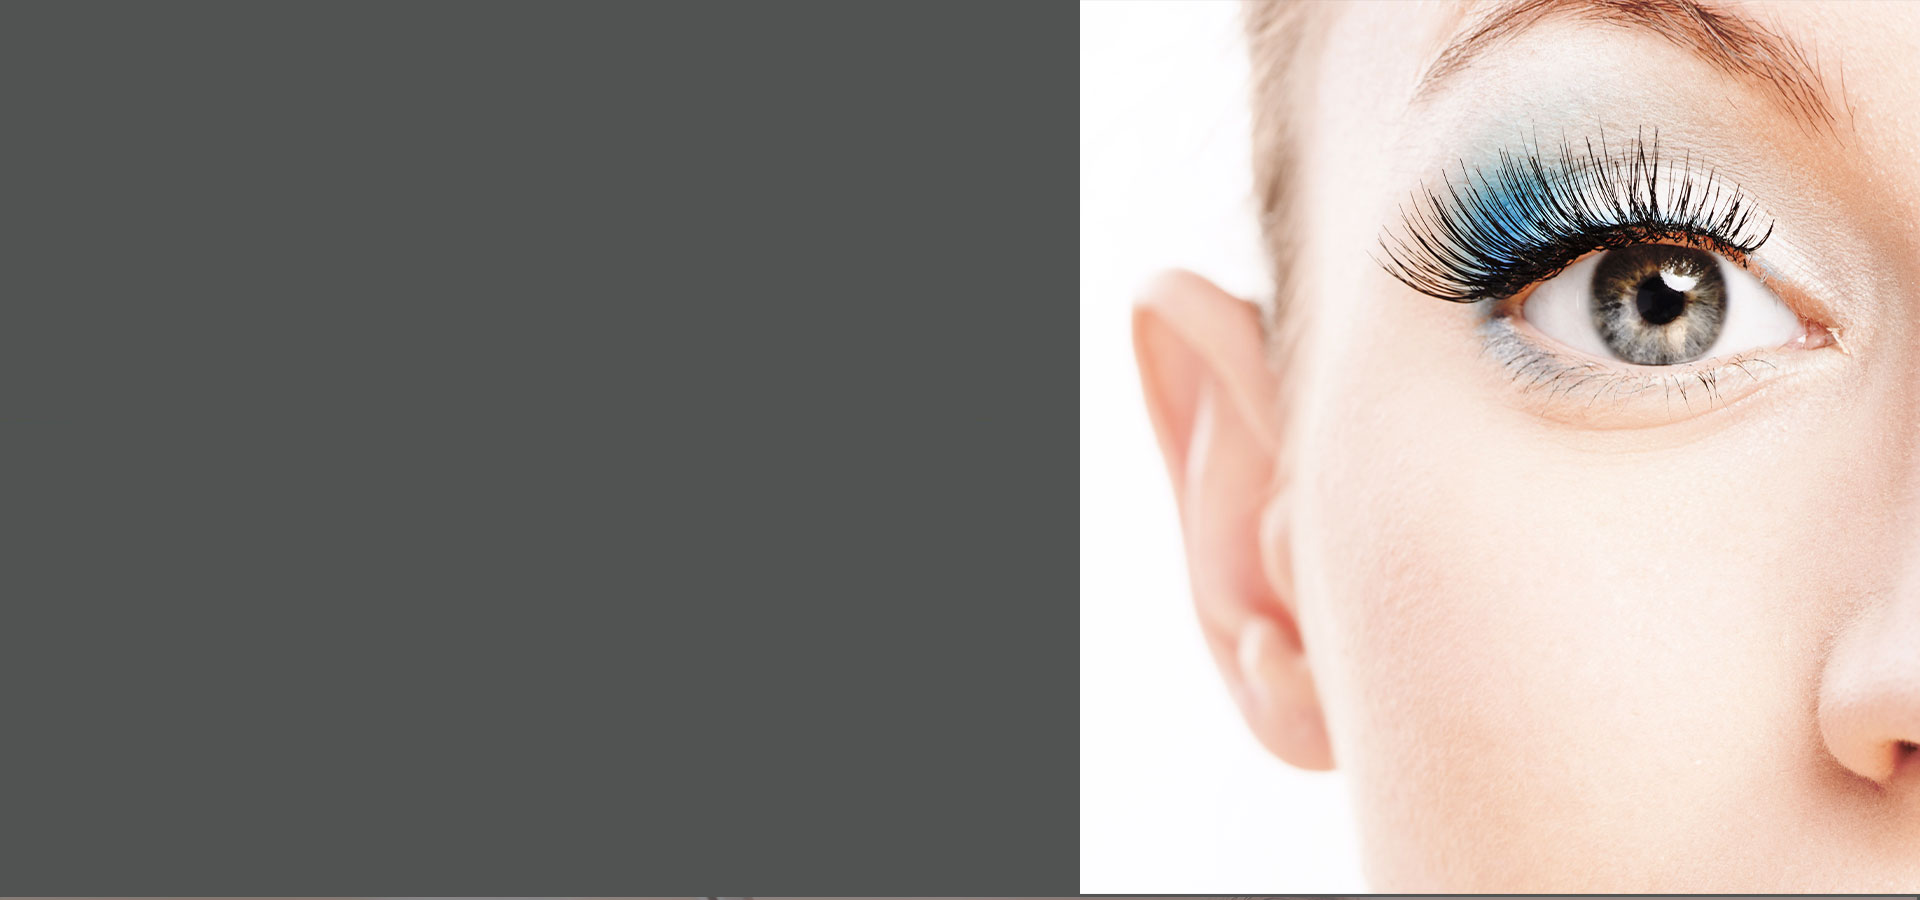
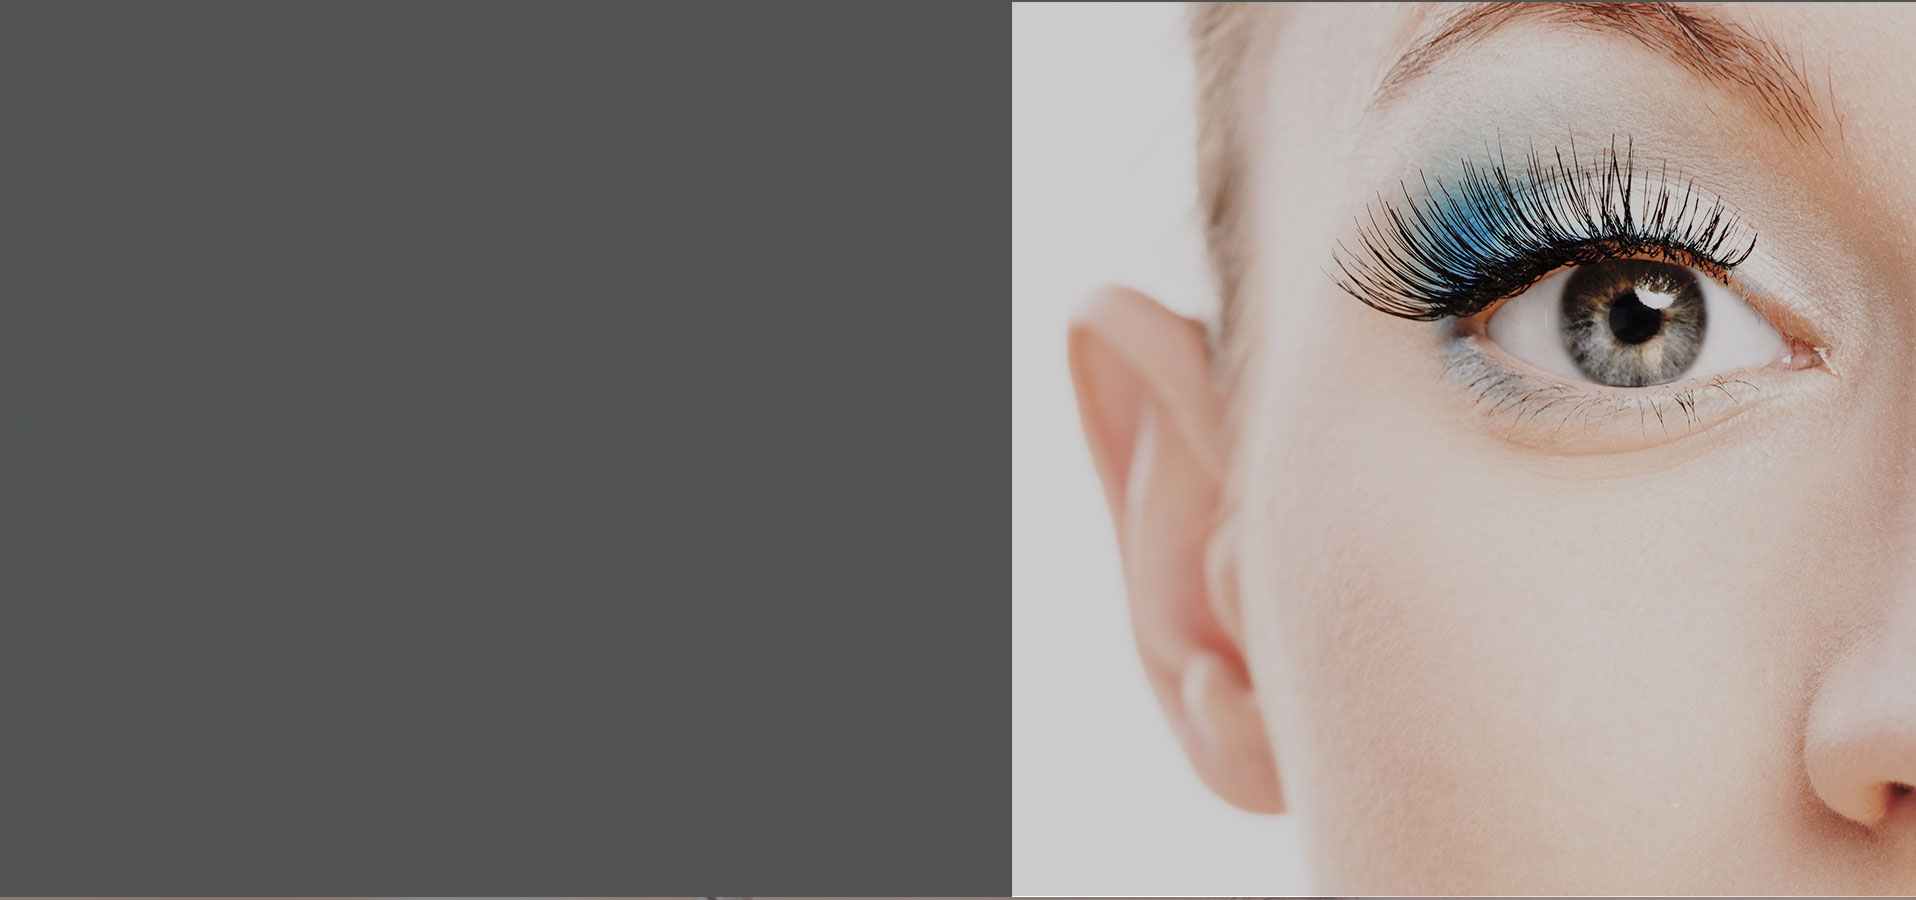
fixed some css

diff --git a/css/styles.css b/css/styles.css
@@ -1,4 +1,5 @@
 * {
+    box-sizing: border-box;
     margin: 0;
     padding: 0;
 }
@@ -7,7 +8,6 @@ a {
 }
 
 .container {
-    width: 100%;
     max-width: 1200px;
     margin: 0 auto;
 }
@@ -25,19 +25,18 @@ a {
     left: 0;
     right: 0;
     z-index: 35;
-    padding-top: 30px;
+    padding: 50px 0 315px 0;
 }
-.header__inner {
-    display: flex;
-    align-items: flex-start;
-}
+
 .nav {
+    width: 390px;
+    display: flex;
+    justify-content: space-between;
     font-size: 16px;
     font-family: "Gotham Pro", sans-serif;
 }
 .nav__link {
-    display: inline-block;
-    margin: 0 15px;
+    /*display: inline-block;*/
     text-decoration: none;
     color: #f9f9fe;
     transition: color .2s linear;
@@ -48,26 +47,25 @@ a {
 
 /* Content */
 .intro {
-    display: flex;
-    flex-direction: column;
-    justify-content: center;
-    width: 100%;
+    padding-top: 185px;
     height: 100vh;
-    background: url(../img/background_01.jpg) center no-repeat;
+    background: url(../img/background_01.jpg) center center/cover no-repeat;
     -webkit-background-size: cover;
-    background-size: cover;
 }
-
+.intro__text {
+    text-align: left;
+    display: flex;
+    justify-content: left;
+    flex-direction: column;
+}
 .intro__subtitle {
-    padding-left: 7px;
-    font-size: 31px;
+    font-size: 30px;
     font-family: "Gotham Pro", serif;
     background: linear-gradient(-105deg, #f4eff2 33%, #d2c3ec);
     -webkit-background-clip: text;
     -webkit-text-fill-color: transparent;
     font-style: italic;
     text-transform: uppercase;
-    text-align: left;
     margin-bottom: 20px;
 }
 .intro__tittle {
@@ -90,13 +88,12 @@ a {
 /*Block about company*/
 .about {
     display: flex;
-    flex-direction: column;
+    /*flex-direction: column;*/
     justify-content: center;
-    width: 100%;
     height: 100vh;
-    background: url(../img/background_02.jpg) center no-repeat;
+    background: url(../img/background_02.jpg) center center/cover no-repeat;
     -webkit-background-size: cover;
-    background-size: cover;
+    padding: 180px 0 160px 0;
 }
 .about__title {
     max-width: 900px;
@@ -115,7 +112,7 @@ a {
     text-align: left;
 }
 .about__subtitle-2 {
-    margin: 60px auto;
+    margin: 90px auto;
     max-width: 580px;
 }
 .about__line {
@@ -129,42 +126,29 @@ a {
 }
 .about__advantage {
     display: flex;
-    width: 100%;
     justify-content: space-between;
-    flex-direction: row;
+    align-items: center;
 }
 .about__advantage__item {
-    margin-top: 10px;
+    margin: 10px 95px 0 0;
+    width: 160px;
+    height:70px;
     color: #FCFCFC;
     text-align: center;
     font-family: "Gotham Pro Regular", serif;
     font-size: 24px;
 }
-.photo {
-    display: block;
-    width: 220px;
-    height: 215px;
-    margin-bottom: 30px;
+.about__advantage__item img {
+    width: 100%;
 }
-.photo_1 {
-    background: url(../img/photo_1.png) no-repeat center;
-}
-.photo_2 {
-    background: url(../img/photo_2.png) no-repeat center;
-}
-.photo_3 {
-    background: url(../img/photo_3.png) no-repeat center;
-}
-.photo_4 {
-    background: url(../img/photo_4.png) no-repeat center;
-}
+
 /*Block-3 Services*/
 .services {
     display: flex;
     flex-direction: column;
     justify-content: center;
     width: 100%;
-    height: 100vh;
+    height: 680px;
     background: url(../img/background_03.jpg) center no-repeat;
     -webkit-background-size: cover;
     background-size: cover;
@@ -208,7 +192,7 @@ a {
 /*Block footer*/
 .footer {
     width: 100%;
-    height: 100vh;
+    height: 750px;
     background: url(../img/background_04.jpg) center no-repeat;
     -webkit-background-size: cover;
     background-size: cover;
@@ -262,17 +246,75 @@ a {
 /*Styles for mobile*/
 @media (min-width: 480px) and (max-width: 768px) {
 
+.container {
+    max-width: 690px;
+    min-width: 410px;
+    }
+    .header {
+        max-width: 768px;
+    }
+    .intro {
+        max-width: 768px;
+        min-width: 410px;
+        height: auto;
+        background-size: contain;
+    }
 }
 
-@media (min-width: 320px) and (max-width: 409px) {
+@media only screen
+and (min-width: 320px)
+and (max-width: 568px) {
+    .container {
+        min-width: 100%;
+    }
+    .title {
+        font-size: 28px;
+    }
+    .nav {
+        flex-direction: column;
+        align-items: center;
+        width: 100%;
+        font-size: 19px;
+    }
+    .nav__link {
+        line-height: 30px;
+    }
+    .header {
+        padding-top: 20px;
+        width: 100%;
+    }
+    .intro {
+        width: 100%;
+        background: #515352;
+    }
+    .intro__subtitle {
+        text-align: center;
+        font-size: 25px;
+    }
+    .intro__tittle {
+        width: 100%;
+        font-size: 60px;
+        text-align: center;
+    }
+    .intro__subtitle-2 {
+        display: none;
+    }
+    .about {
+        width: 100%;
+    }
+    .about__subtitle {
+        text-align: center;
+    }
+    .about__title {
+        font-size: 25px;
+    }
+}
+
+@media (max-width: 767px) {
 
 }
 
-@media (min-width: 410px) and (max-width: 767px) {
-
-}
-
-@media (min-width: 768px) and (max-width: 1024px) {
+@media (max-width: 1024px) {
 
 
 }

diff --git a/index.html b/index.html
@@ -2,7 +2,7 @@
 <html lang="en">
 <head>
     <meta name="description" content="services">
-    <meta name="viewport" content="width=device-width, initial-scale=1">
+    <meta name="viewport" content="width=device-width, initial-scale=1.0">
     <meta charset="UTF-8">
     <link rel="stylesheet" href="css/styles.css">
     <title>Elza lashes</title>
@@ -10,19 +10,18 @@
 <body>
 <header class="header" id="main">
     <div class="container">
-        <div class="header__inner">
             <nav class="nav">
                 <a class="nav__link" href="#main"> Главная </a>
                 <a class="nav__link" href="#about"> О нас </a>
                 <a class="nav__link" href="#services"> Услуги </a>
                 <a class="nav__link" href="#contacts"> Контакты </a>
             </nav>
-        </div>
     </div>
 </header>
 
 <div class="intro">
     <div class="container">
+        <div class="intro__text">
         <h2 class="intro__subtitle"> Пока Вы красите - мы наращиваем! </h2>
         <h1 class="intro__tittle"> Elza Lashes </h1>
         <h3 class="intro__subtitle-2">
@@ -30,6 +29,7 @@
             Красота в глазах... клиенток<br>
             Долой тушь - нарасти РЕСНИЦЫ
         </h3>
+        </div>
     </div>
 </div>
 <div class="about" id="about">
@@ -40,10 +40,14 @@
         <p class="about__subtitle-2 title"> Наши мастера </p>
         <div class="about__line"></div>
         <div class="about__advantage">
-            <p class="about__advantage__item"><span class="photo photo_1"></span> Алена </p>
-            <p class="about__advantage__item"><span class="photo photo_2"></span> Вика </p>
-            <p class="about__advantage__item"><span class="photo photo_3"></span> Настя </p>
-            <p class="about__advantage__item"><span class="photo photo_4"></span> Эльза </p>
+            <div class="about__advantage__item">
+                <img src="img/photo_1.png" alt="master-1"> <span class="photo-description"> Алена</span> </div>
+            <div class="about__advantage__item">
+                <img src="img/photo_2.png" alt="master-2"> <span class="photo-description"> Вика </span> </div>
+            <div class="about__advantage__item">
+                <img src="img/photo_3.png" alt="master-3"> <span class="photo-description"> Настя </span> </div>
+            <div class="about__advantage__item">
+                <img src="img/photo_4.png" alt="master-4"> <span class="photo-description"> Эльза </span> </div>
         </div>
     </div>
 </div>
